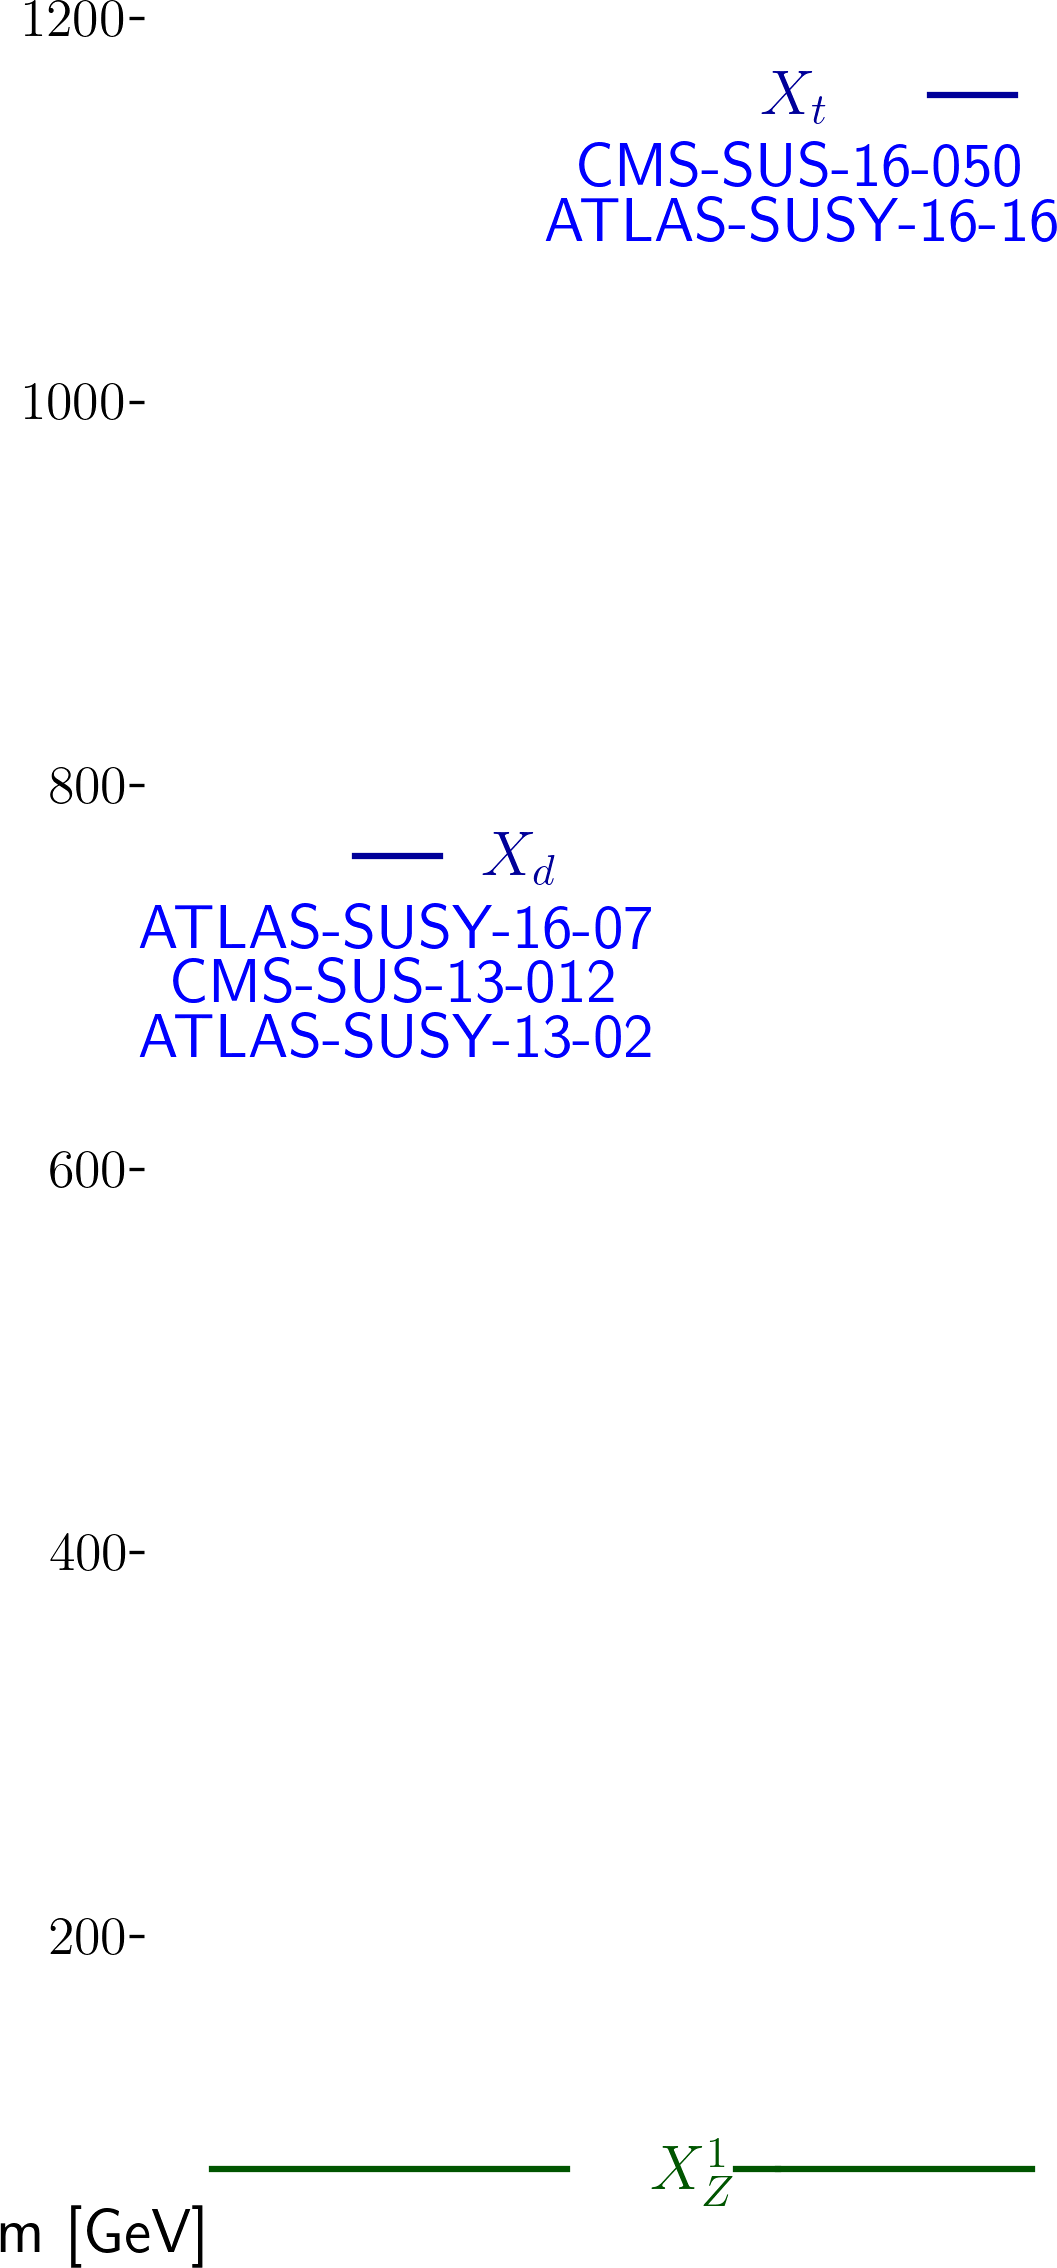
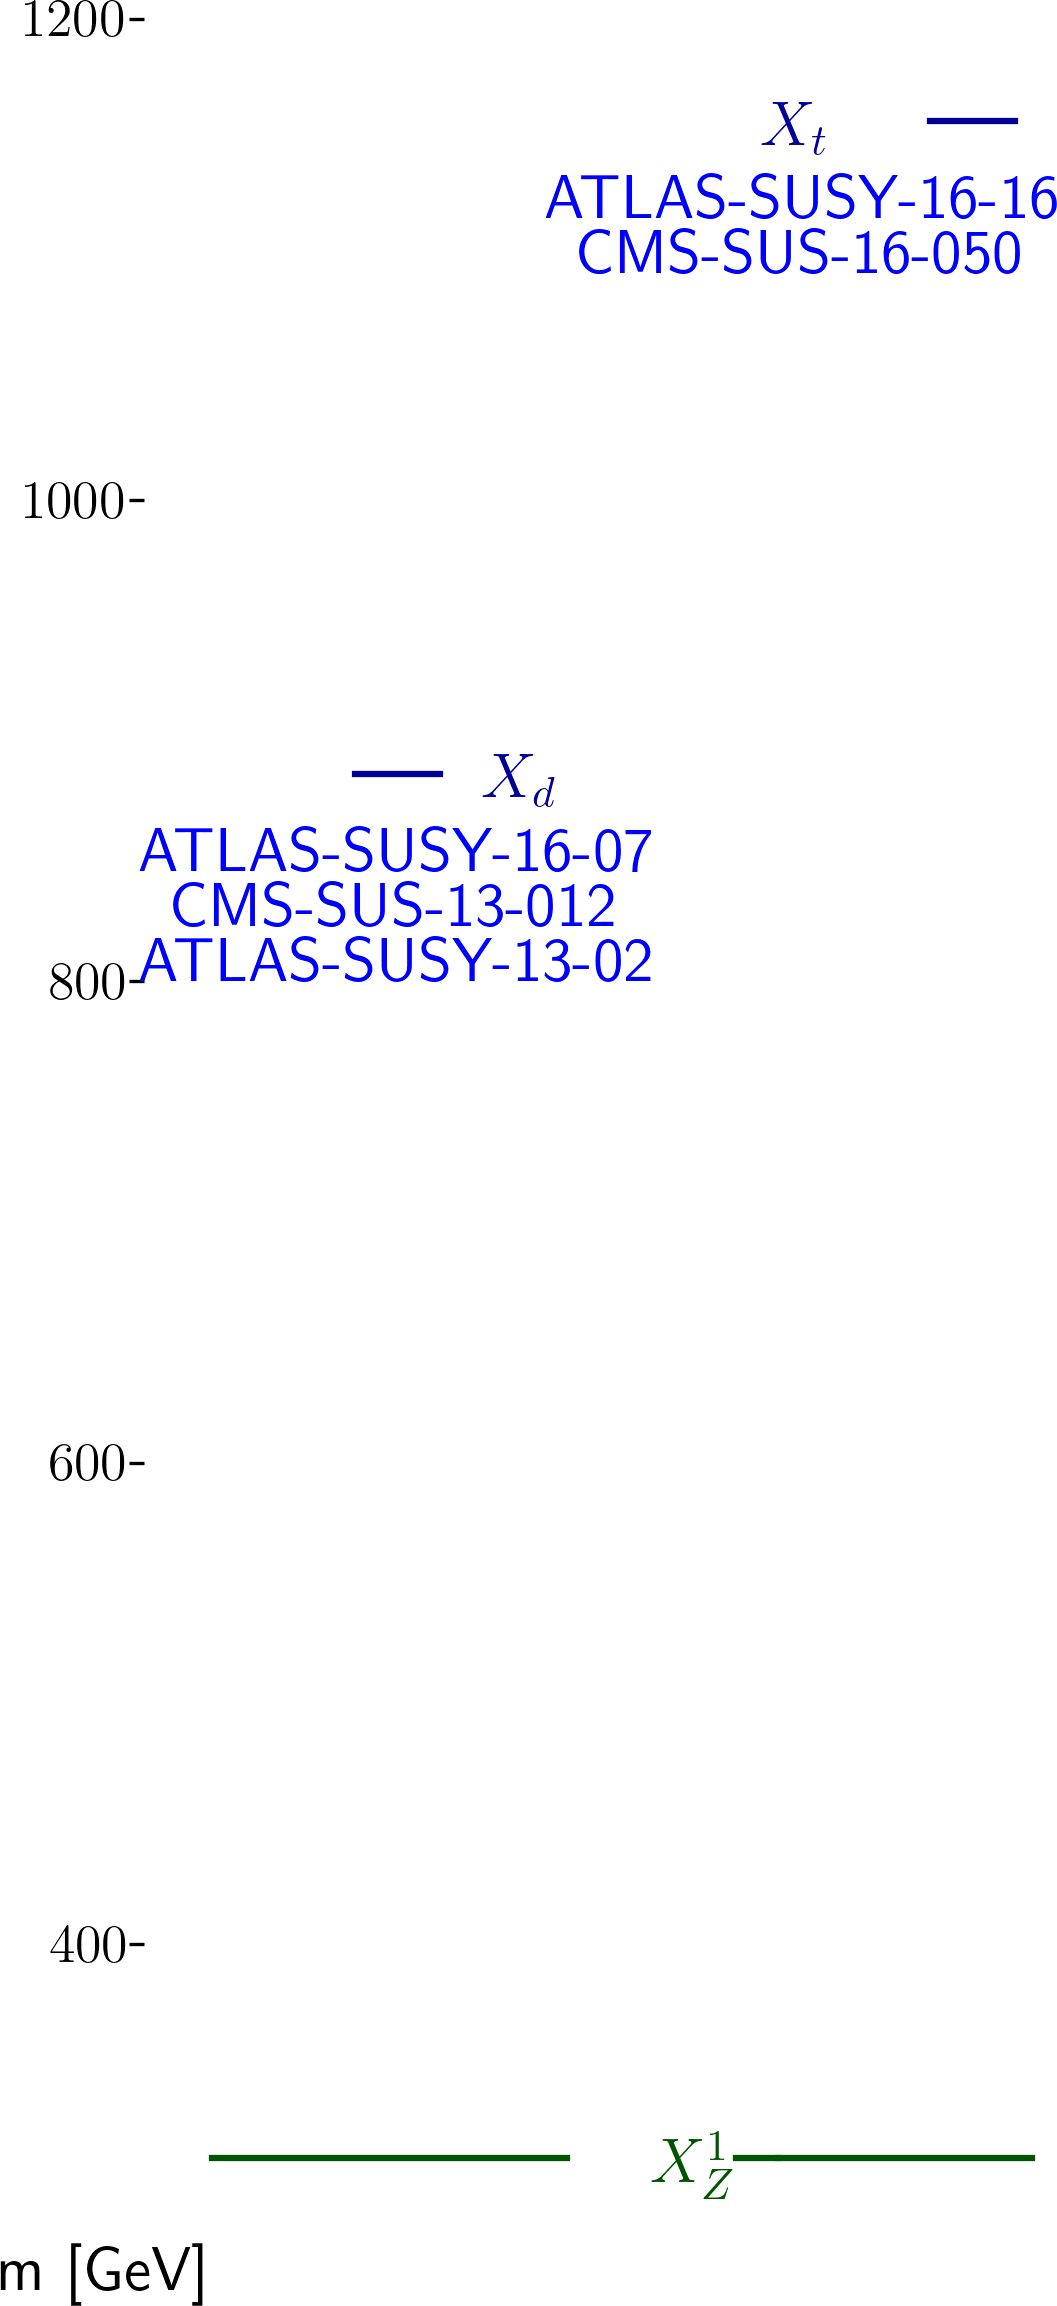
automated update by plotHiscore.py to /scratch-cbe/users/wolfgan.waltenberger/git/smodels.github.io/protomodels/2020_PioneerStudy/real4/

diff --git a/protomodels/2020_PioneerStudy/real4/index.html b/protomodels/2020_PioneerStudy/real4/index.html
@@ -1,30 +1,30 @@
 <html>
 <body>
 <center>
-<table><td><h1>Current best protomodel: K=6.70</h1><td><img height=60px src=https://smodels.github.io/pics/banner.png></table>
+<table><td><h1>Current best protomodel: K=7.03</h1><td><img height=60px src=https://smodels.github.io/pics/banner.png></table>
 </center>
-<b><a href=./hiscore.slha>ProtoModel</a> <a href=./pmodel.py>(dict)</a> produced with <a href=https://smodels.github.io/docs/Validation124>database v1.2.4</a>, combination strategy <a href=./matrix_aggressive.png>aggressive</a> in walker 32 step 959.</b> K plots for: <a href=./M1000022.png?13243439>X<sub>Z</sub><sup>1</sup></a>, <a href=./M1000006.png?13243439>X<sub>t</sub></a>, <a href=./M1000001.png?13243439>X<sub>d</sub></a>. HPD plots for: <a href=./llhd1000006.png?13243439>X<sub>t</sub></a>, <a href=./llhd1000001.png?13243439>X<sub>d</sub></a>. SSM plots for: <a href=./ssm_-1000006_1000006.png?13243439>(x&#772;<sub>t</sub>,X<sub>t</sub>)</a><br>
+<b><a href=./hiscore.slha>ProtoModel</a> <a href=./pmodel.py>(dict)</a> produced with <a href=https://smodels.github.io/docs/Validation124>database v1.2.4</a>, combination strategy <a href=./matrix_aggressive.png>aggressive</a> in walker 28 step 170.</b> K plots for: <a href=./M1000022.png?13647617>X<sub>Z</sub><sup>1</sup></a>, <a href=./M1000006.png?13647617>X<sub>t</sub></a>, <a href=./M1000001.png?13647617>X<sub>d</sub></a>. HPD plots for: <a href=./llhd1000006.png?13647617>X<sub>t</sub></a>, <a href=./llhd1000001.png?13647617>X<sub>d</sub></a>. SSM plots for: <a href=./ssm_-1000006_1000006.png?13647617>(x&#772;<sub>t</sub>,X<sub>t</sub>)</a><br>
 <table width=80%>
 <tr><td>
 <br><b>24 predictions available. Highest r values are:</b><br><ul>
 <li><a href=http://cms-results.web.cern.ch/cms-results/public-results/publications/SUS-19-006/index.html>CMS-SUS-19-006</a>:T2 r=1.30, r<sub>exp</sub>=1.13<br>
-<li><a href=http://cms-results.web.cern.ch/cms-results/public-results/publications/SUS-16-033/index.html>CMS-SUS-16-033</a>:T2 r=1.16, r<sub>exp</sub>=0.83<br>
-<li><a href=http://cms-results.web.cern.ch/cms-results/public-results/publications/SUS-19-006/index.html>CMS-SUS-19-006</a>:T2tt r=1.12, r<sub>exp</sub>=1.10<br>
-<li><a href=http://cms-results.web.cern.ch/cms-results/public-results/publications/SUS-16-036/index.html>CMS-SUS-16-036</a>:T2 r=0.83, r<sub>exp</sub>=0.75<br>
-<li><a href=http://cms-results.web.cern.ch/cms-results/public-results/publications/SUS-16-036/index.html>CMS-SUS-16-036</a>:T2tt r=0.75, r<sub>exp</sub>=0.59<br>
+<li><a href=http://cms-results.web.cern.ch/cms-results/public-results/publications/SUS-16-033/index.html>CMS-SUS-16-033</a>:T2 r=1.11, r<sub>exp</sub>=0.82<br>
+<li><a href=http://cms-results.web.cern.ch/cms-results/public-results/publications/SUS-19-006/index.html>CMS-SUS-19-006</a>:T2tt r=1.06, r<sub>exp</sub>=0.99<br>
+<li><a href=http://cms-results.web.cern.ch/cms-results/public-results/publications/SUS-16-036/index.html>CMS-SUS-16-036</a>:T2 r=0.80, r<sub>exp</sub>=0.77<br>
+<li><a href=http://cms-results.web.cern.ch/cms-results/public-results/publications/SUS-16-051/index.html>CMS-SUS-16-051</a>:T2tt r=0.78, r<sub>exp</sub>=0.50<br>
 </ul>
 <td><br><b>K values without analyses: (contribution)</b><br>
 <ul>
-<li> <a href=http://cms-results.web.cern.ch/cms-results/public-results/publications/SUS-16-050/index.html>CMS-SUS-16-050</a>: 3.38 (14%)
-<li> <a href=https://twiki.cern.ch/twiki/bin/view/CMSPublic/PhysicsResultsSUS13012>CMS-SUS-13-012</a>: 3.38 (14%)
-<li> <a href=https://atlas.web.cern.ch/Atlas/GROUPS/PHYSICS/PAPERS/SUSY-2013-02/>ATLAS-SUSY-2013-02</a>: 3.29 (15%)
-<li> <a href=https://atlas.web.cern.ch/Atlas/GROUPS/PHYSICS/PAPERS/SUSY-2016-16/>ATLAS-SUSY-2016-16</a>: 1.21 (24%)
-<li> <a href=https://atlas.web.cern.ch/Atlas/GROUPS/PHYSICS/PAPERS/SUSY-2016-07/>ATLAS-SUSY-2016-07</a>: -0.79 (33%)
-<td><img width=600px src=./texdoc.png?1606243439>
-<br><font size=-1>Last updated: Tue Nov 24 19:43:59 2020</font>
+<li> <a href=https://twiki.cern.ch/twiki/bin/view/CMSPublic/PhysicsResultsSUS13012>CMS-SUS-13-012</a>: 3.82 (14%)
+<li> <a href=http://cms-results.web.cern.ch/cms-results/public-results/publications/SUS-16-050/index.html>CMS-SUS-16-050</a>: 3.82 (14%)
+<li> <a href=https://atlas.web.cern.ch/Atlas/GROUPS/PHYSICS/PAPERS/SUSY-2013-02/>ATLAS-SUSY-2013-02</a>: 3.76 (14%)
+<li> <a href=https://atlas.web.cern.ch/Atlas/GROUPS/PHYSICS/PAPERS/SUSY-2016-16/>ATLAS-SUSY-2016-16</a>: 1.43 (24%)
+<li> <a href=https://atlas.web.cern.ch/Atlas/GROUPS/PHYSICS/PAPERS/SUSY-2016-07/>ATLAS-SUSY-2016-07</a>: -0.56 (33%)
+<td><img width=600px src=./texdoc.png?1606647617>
+<br><font size=-1>Last updated: Sun Nov 29 12:00:17 2020</font>
 </table><table style="width:80%">
-<td width=45%><img height=580px src=./ruler.png?1606243439><td width=55%><img height=380px src=./decays.png?1606243439>
-<font size=-3><iframe type="text/html" height="220px" width="100%s" frameborder="0" src="./rawnumbers.html?1606243439"></iframe></font>
+<td width=45%><img height=580px src=./ruler.png?1606647617><td width=55%><img height=380px src=./decays.png?1606647617>
+<font size=-3><iframe type="text/html" height="220px" width="100%s" frameborder="0" src="./rawnumbers.html?1606647617"></iframe></font>
 </table>
 </body>
 </html>

diff --git a/protomodels/2020_PioneerStudy/real4/rawnumbers.html b/protomodels/2020_PioneerStudy/real4/rawnumbers.html
@@ -4,6 +4,6 @@
 <tr><td><a href=https://atlas.web.cern.ch/Atlas/GROUPS/PHYSICS/PAPERS/SUSY-2013-02/>ATLAS-SUSY-2013-02</a></td><td>em</td> <td>SR6jtp</td><td>T2</td><td>6</td><td>4.9 +/- 1.6</td><td style="text-align:right">0.4 &sigma;</td><td style="text-align:right">X<sub>d</sub></td></tr>
 <tr><td><a href=https://atlas.web.cern.ch/Atlas/GROUPS/PHYSICS/PAPERS/SUSY-2016-07/>ATLAS-SUSY-2016-07</a></td><td>em</td> <td>2j_Meff_1200</td><td>T2</td><td>611</td><td>526 +/- 31</td><td style="text-align:right">2.2 &sigma;</td><td style="text-align:right">X<sub>d</sub></td></tr>
 <tr><td><a href=https://atlas.web.cern.ch/Atlas/GROUPS/PHYSICS/PAPERS/SUSY-2016-16/>ATLAS-SUSY-2016-16</a></td><td>em</td> <td>tN_high</td><td>T2tt</td><td>8</td><td>3.8 +/- 1</td><td style="text-align:right">1.9 &sigma;</td><td style="text-align:right">X<sub>t</sub></td></tr>
-<tr><td><a href=https://twiki.cern.ch/twiki/bin/view/CMSPublic/PhysicsResultsSUS13012>CMS-SUS-13-012</a></td><td>ul</td> <td>-</td><td>T2</td><td> 23.6 fb </td><td> 15.1 fb</td><td style="text-align:right">1.1 &sigma;</td><td style="text-align:right">X<sub>d</sub></td></tr>
-<tr><td><a href=http://cms-results.web.cern.ch/cms-results/public-results/publications/SUS-16-050/index.html>CMS-SUS-16-050</a></td><td>ul</td> <td>-</td><td>T2tt</td><td> 4.5 fb </td><td> 2.5 fb</td><td style="text-align:right">1.6 &sigma;</td><td style="text-align:right">X<sub>t</sub></td></tr>
+<tr><td><a href=https://twiki.cern.ch/twiki/bin/view/CMSPublic/PhysicsResultsSUS13012>CMS-SUS-13-012</a></td><td>ul</td> <td>-</td><td>T2</td><td> 20.8 fb </td><td> 12.7 fb</td><td style="text-align:right">1.2 &sigma;</td><td style="text-align:right">X<sub>d</sub></td></tr>
+<tr><td><a href=http://cms-results.web.cern.ch/cms-results/public-results/publications/SUS-16-050/index.html>CMS-SUS-16-050</a></td><td>ul</td> <td>-</td><td>T2tt</td><td> 4.9 fb </td><td> 2.7 fb</td><td style="text-align:right">1.5 &sigma;</td><td style="text-align:right">X<sub>t</sub></td></tr>
 </table>

diff --git a/protomodels/2020_PioneerStudy/real4/pmodel.py b/protomodels/2020_PioneerStudy/real4/pmodel.py
@@ -1,1 +1,1 @@
-{'masses': {1000022: 68.379, 1000001: 752.87, 1000006: 1149.761}, 'ssmultipliers': {(1000022, 1000022): 0.003, (1000001, 1000001): 0.443, (-1000001, 1000001): 0.443, (-1000001, -1000001): 0.443, (1000001, 1000022): 0.443, (-1000001, 1000022): 0.443, (1000006, 1000006): 1.008, (-1000006, 1000006): 1.008, (-1000006, -1000006): 1.008, (1000006, 1000022): 1.008, (-1000006, 1000022): 1.008, (1000001, 1000006): 1.008, (-1000006, 1000001): 1.008, (-1000001, 1000006): 1.008, (-1000006, -1000001): 1.008}, 'decays': {1000022: {}, 1000001: {(1000022, 1): 1.0}, 1000006: {(1000022, 6): 1.0}}, 'timestamp': 'Tue Nov 24 19:43:38 2020', 'Z': 3.202, 'K': 6.702, 'walkerid': 32, 'step': 959, 'codever': '1.0', 'dbver': '1.2.4'}
+{'masses': {1000022: 301.127, 1000001: 876.157, 1000006: 1147.263}, 'ssmultipliers': {(1000022, 1000022): 0.419, (1000001, 1000001): 0.174, (-1000001, 1000001): 1.034, (-1000001, -1000001): 1.034, (1000001, 1000022): 0.0, (-1000001, 1000022): 1.034, (1000006, 1000006): 1.062, (-1000006, 1000006): 1.062, (-1000006, -1000006): 1.062, (1000006, 1000022): 1.137, (-1000006, 1000022): 1.137, (1000001, 1000006): 1.089, (-1000006, 1000001): 1.039, (-1000001, 1000006): 1.089, (-1000006, -1000001): 1.04}, 'decays': {1000022: {}, 1000001: {(1000022, 1): 1.0}, 1000006: {(1000022, 6): 1.0}}, 'timestamp': 'Sun Nov 29 12:00:09 2020', 'Z': 3.214, 'K': 7.03, 'walkerid': 28, 'step': 170, 'codever': '1.0', 'dbver': '1.2.4'}
